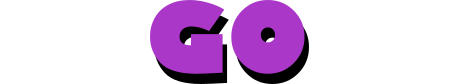
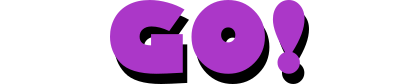
Change game text to Ready Set Go

Changed region(s): [[0.2476, 0.0, 0.7429, 1.0]]

diff --git a/Assets/Scripts/UIGameText.cs b/Assets/Scripts/UIGameText.cs
@@ -16,6 +16,10 @@ public class UIGameText : MonoBehaviour
 
         yield return new WaitForSecondsRealtime(waitingTime);
 
+        gameTextObject.GetComponent<Image>().sprite = Resources.Load<Sprite>("Set");
+
+        yield return new WaitForSecondsRealtime(waitingTime);
+
         gameTextObject.GetComponent<Image>().sprite = Resources.Load<Sprite>("Go");
 
         yield return new WaitForSecondsRealtime(waitingTime);
